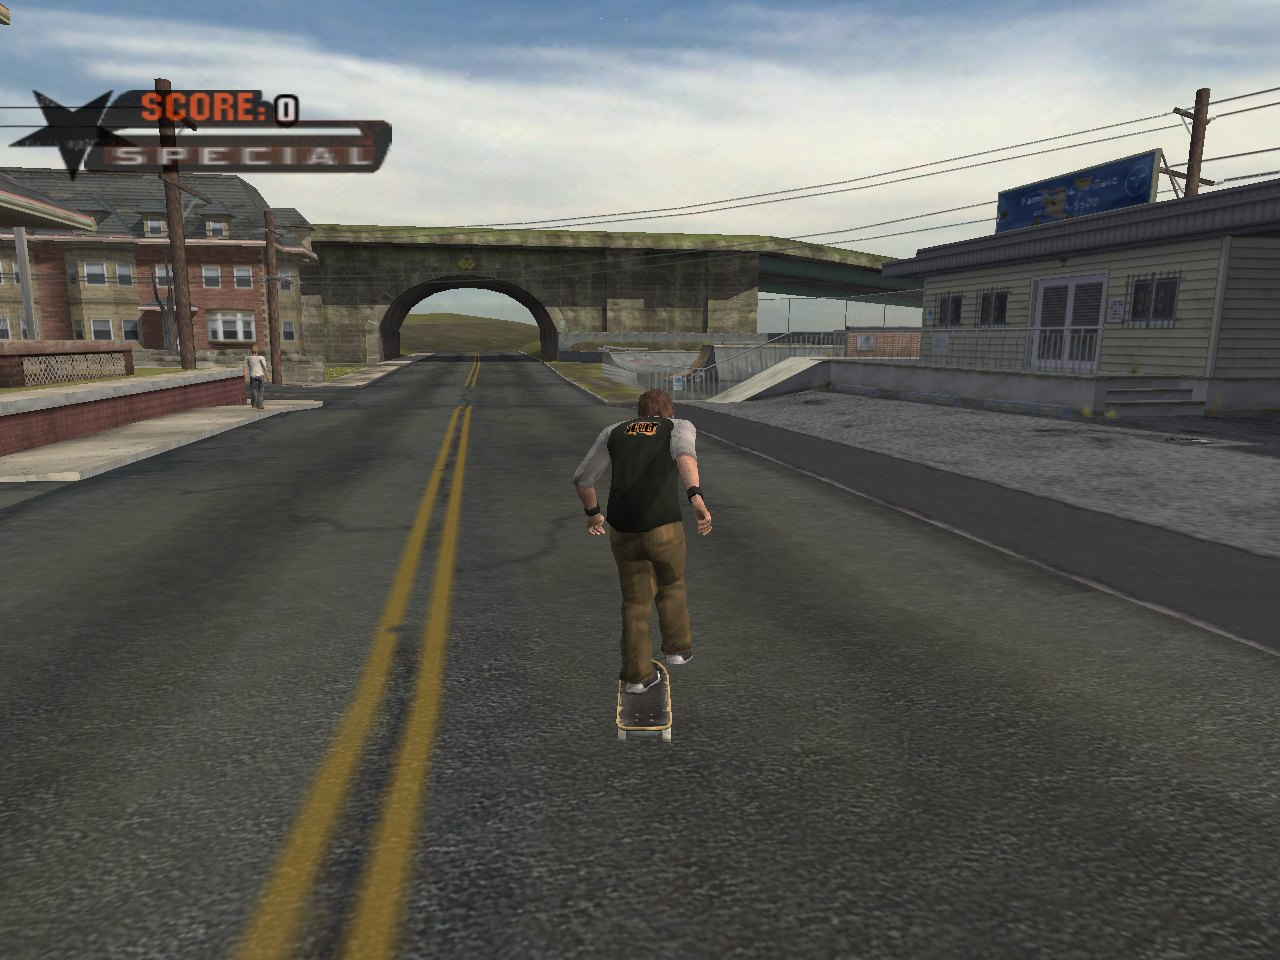
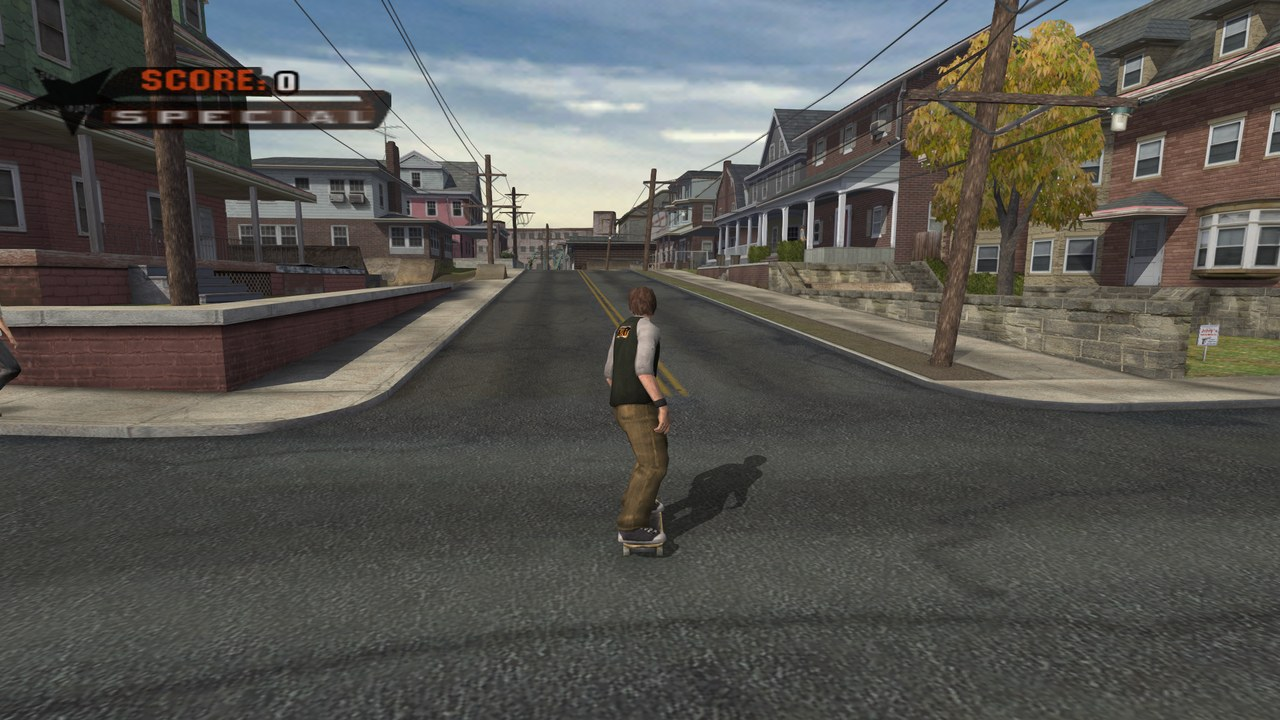
README: new pictures (skater shadows), HD comparison removed, status
Claude-Session: https://claude.ai/code/session_01JYzPsfkPu6eP1gnrUzZxKA

diff --git a/README.md b/README.md
@@ -25,14 +25,16 @@ A static recompilation by 8gram Labs: the original x86 game code is translated t
 
 > [!IMPORTANT]
 > **No download yet.** The first release ships when the Windows, Linux and Android builds are all ready
-> together. Windows and Linux are playable today. The Android build still has to be tested on a real phone.
+> together. Windows and Linux are playable today. The Android build runs on a first phone and is being tested.
 > Developers can [build it from source](#building-from-source-developers) now.
 
 <div align="center">
 
 ![New Jersey](docs/images/gameplay_nj.jpg)
 
-![Grinding in New Jersey](docs/images/gameplay_grind.jpg)
+![Nosegrind](docs/images/gameplay_grind.jpg)
+
+![Wall ride in Moscow](docs/images/gameplay_wall.jpg)
 
 </div>
 
@@ -41,8 +43,8 @@ A static recompilation by 8gram Labs: the original x86 game code is translated t
 - **Native builds, no emulator.** Every function of `default.xbe` is lifted to C and compiled for the machine it
   runs on: 64-bit Windows, Linux (x86-64) and Android (arm64).
 - **Own Vulkan renderer.** The Xbox GPU's (NV2A) push buffer goes straight to Vulkan on every platform: vertex
-  programs and register combiners run as shader interpreters, with shadow maps, fog and texture generation. No
-  Direct3D, no DXVK.
+  programs and register combiners run as shader interpreters, with shadow maps, lighting, fog and texture
+  generation. No Direct3D, no DXVK.
 - **High resolution and supersampling.** The game renders at a multiple of the Xbox's 480 lines: 2x (960 lines) by
   default, up to 8x, scaled down cleanly to the window. Changes live in the in-game menu.
 - **Optional graphics.** Anti-aliasing and ambient occlusion (the HUD stays sharp), anisotropic texture filtering,
@@ -88,8 +90,6 @@ Two players, split screen:
 
 ## HD textures
 
-![Original and HD texture pack, same frame](docs/images/hd_compare.jpg)
-
 Optional. Unpack a PCSX2 replacement pack for the PS2 version (*Tony Hawk's Underground (USA) [SLUS-20731]*), then
 pick its folder, for example `...\SLUS-20731\replacements`, in the launcher (**Settings**, **HD texture pack**).
 Linux: `./setup.sh --hd <folder>` or `UG_HDTEX=<folder>` in `settings.ini`. The pack is used where it is and is not
@@ -123,17 +123,17 @@ rebuild the game in place and keep your saves and settings.
 | Story mode: intro cutscene, Create-a-Skater, New Jersey level | Working, skater controllable, HUD, 60 fps |
 | Saves, loading, cutscene streaming | Working |
 | Sound, music, movies | Working (DirectSound mixed in software) |
-| Renderer: textures, combiners, fog, shadow maps, texgen, depth clamp, polygon offset | Working |
+| Renderer: textures, combiners, fog, lighting, skater shadows, texgen, depth clamp, polygon offset | Working |
 | Widescreen 16:9 (the game's own mode), window size, monitor, fullscreen | Working |
-| Other levels | Not checked yet: renderer gaps (FF lighting, cube maps, some texgen modes) may show up |
+| Other levels | All 15 load and play in free skate; story goals beyond New Jersey are not checked |
 | Installer, launcher, updates, uninstall (Windows) | Install, update and uninstall tested |
 | Linux | Boots to New Jersey gameplay; install, update, uninstall and the updater tested (Ubuntu 24.04, WSL) |
-| Android | APK builds and signs on Windows and Linux; not yet run on a phone |
+| Android | APK builds and signs on Windows and Linux; first phone (Galaxy S26 Ultra): boots, menus, New Jersey free skate |
 | HD texture packs (PS2 PCSX2 packs, matched by picture) | Working (optional; F10 toggles) |
 
 Known gaps:
-- A translucent dark band sometimes crosses the sky (cosmetic).
-- Only the first levels have been played so far; later levels may need renderer work.
+- The story has been played only through its first level; the other levels were checked in free skate.
+- Two-player split screen draws no skater shadows.
 - Not yet tested on a clean PC, on a real Linux GPU, or with real controllers on Linux.
 
 ## Controls
